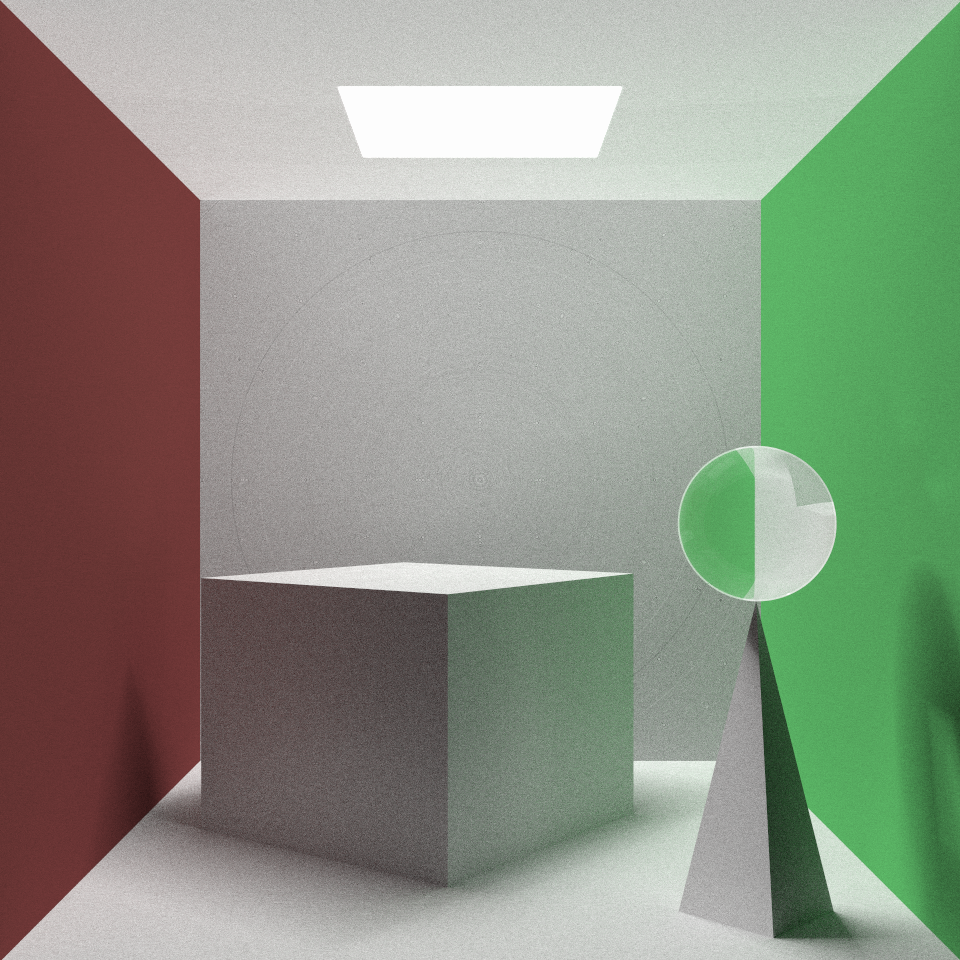
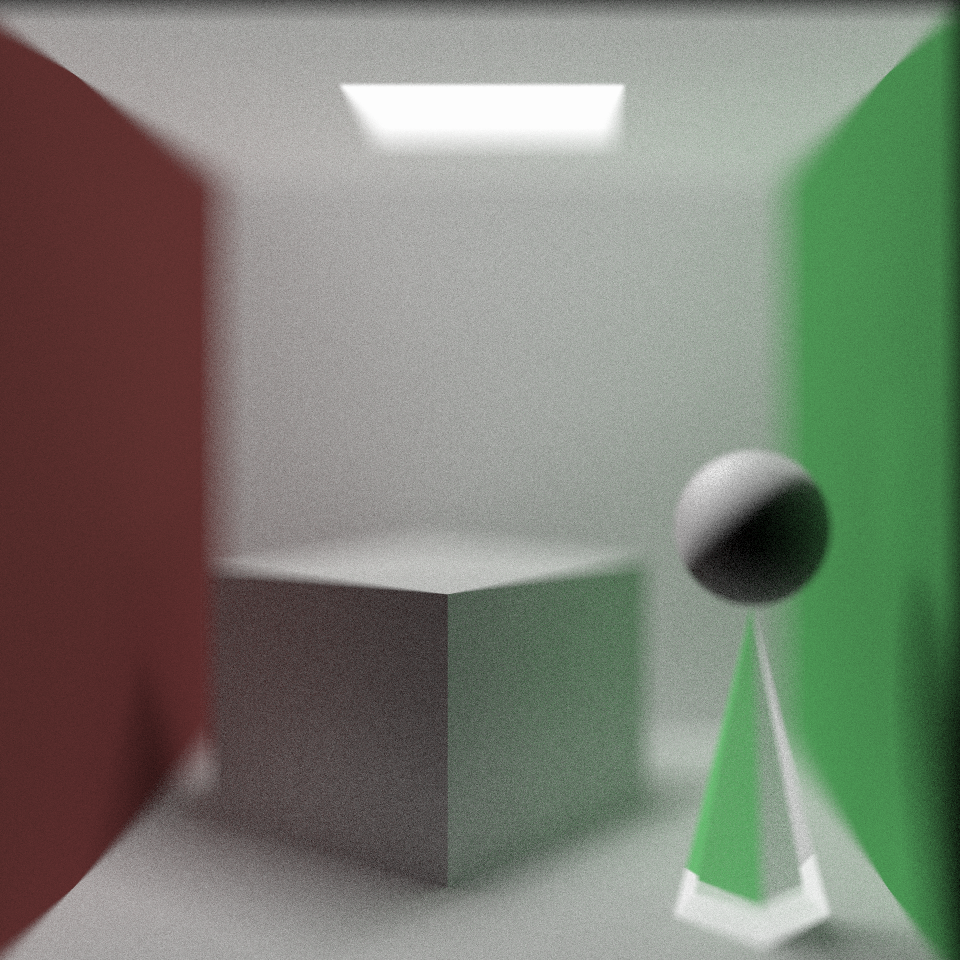
..

diff --git a/apps/main.cpp b/apps/main.cpp
@@ -27,8 +27,8 @@ int main() {
 
     init(RenderEnv::CUDA);
     Vec3* pixels;
-    setRenderConfig(width, height, 5, 256, true);
-    setCamera(40.f, 1.f, 10.f, 0.0f, {278.f, 278.f, -750.f}, {278.f, 278.f, 0});
+    setRenderConfig(width, height, 4, 128, true);
+    setCamera(40.f, 1.f, 900.f, 200.0f, {278.f, 278.f, -750.f}, {278.f, 278.f, 0});
 
     auto whiteT = Texture::createSolid({ .73, .73, .73 });
     auto redT   = Texture::createSolid({ .2f, .05f, .05f });
@@ -48,41 +48,41 @@ int main() {
 
     auto light  = Material::createEmitted(0, 1.0, 0, 0);
 
-    Object::createTriangle({555, 0, 555}, {0, 0, 555}, {0, 0, 0}, whiteW);
-    Object::createTriangle({555, 0, 555}, {555, 0, 0}, {0, 0, 0}, whiteW);
+    Object::createTriangle({555, 0, 555}, {0, 0, 555}, {0, 0, 0}, {0, -1, 0}, whiteW);
+    Object::createTriangle({555, 0, 555}, {555, 0, 0}, {0, 0, 0}, {0, -1, 0}, whiteW);
 
-    Object::createTriangle({555, 0, 555},{555, 555, 555},{0, 0, 555}, whiteW);
-    Object::createTriangle({0, 555, 555},{0, 0, 555}, {555, 555, 555}, whiteW);
+    Object::createTriangle({555, 0, 555},{555, 555, 555},{0, 0, 555}, {0,  0, 666}, whiteW);
+    Object::createTriangle({0, 555, 555},{0, 0, 555}, {555, 555, 555}, {0,  0, 666}, whiteW);
 
-    Object::createTriangle({555, 555, 555}, {0, 555, 555}, {0, 555, 0}, whiteW);
-    Object::createTriangle({555, 555, 555}, {555, 555, 0}, {0, 555, 0}, whiteW);
+    Object::createTriangle({555, 555, 555}, {0, 555, 555}, {0, 555, 0}, {0, 666, 0}, whiteW);
+    Object::createTriangle({555, 555, 555}, {555, 555, 0}, {0, 555, 0}, {0, 666, 0}, whiteW);
 
-    Object::createTriangle({555, 555, 555}, {555, 0, 555}, {555, 0, 0}, redW);
-    Object::createTriangle({555, 555, 555}, {555, 555, 0}, {555, 0, 0}, redW);
+    Object::createTriangle({555, 555, 555}, {555, 0, 555}, {555, 0, 0}, {666, 0, 0}, redW);
+    Object::createTriangle({555, 555, 555}, {555, 555, 0}, {555, 0, 0}, {666, 0, 0}, redW);
 
-    Object::createTriangle({0, 555, 555}, {0, 0, 555}, {0, 0, 0}, greenW);
-    Object::createTriangle({0, 555, 555}, {0, 555, 0}, {0, 0, 0}, greenW);
+    Object::createTriangle({0, 555, 555}, {0, 0, 555}, {0, 0, 0}, {-1, 0, 0}, greenW);
+    Object::createTriangle({0, 555, 555}, {0, 555, 0}, {0, 0, 0}, {-1, 0, 0}, greenW);
 
-    Object::createTriangle({378, 554, 378}, {178, 554, 378}, {178, 554, 178}, light);
-    Object::createTriangle({378, 554, 378}, {378, 554, 178}, {178, 554, 178}, light);
+    Object::createTriangle({378, 554, 378}, {178, 554, 378}, {178, 554, 178}, {0, 666, 0}, light);
+    Object::createTriangle({378, 554, 378}, {378, 554, 178}, {178, 554, 178}, {0, 666, 0}, light);
     
-    Object::createSphere({100, 250, 100}, 50, glass);
+    Object::createSphere({100, 250, 100}, 50, phong);
 
-    Object::createTriangle({100, 200, 100}, {100, 0, 50}, {50, 0, 100}, whiteW);
-    Object::createTriangle({100, 200, 100}, {100, 0, 150}, {50, 0, 100}, whiteW);
-    Object::createTriangle({100, 200, 100}, {150, 0, 100}, {100, 0, 150}, whiteW);
-    Object::createTriangle({100, 200, 100}, {150, 0, 100}, {100, 0, 50}, whiteW);
+    Object::createTriangle({100, 200, 100}, {100, 0, 50}, {50, 0, 100}, {100, 0, 100}, glass);
+    Object::createTriangle({100, 200, 100}, {100, 0, 150}, {50, 0, 100}, {100, 0, 100}, glass);
+    Object::createTriangle({100, 200, 100}, {150, 0, 100}, {100, 0, 150}, {100, 0, 100}, glass);
+    Object::createTriangle({100, 200, 100}, {150, 0, 100}, {100, 0, 50}, {100, 0, 100}, glass);
 
-    Object::createTriangle({300, 200, 150}, {150, 200, 350}, {350, 200, 500}, whiteW);
-    Object::createTriangle({300, 200, 150}, {500, 200, 300}, {350, 200, 500}, whiteW);
-    Object::createTriangle({300, 200, 150}, {150, 0, 350}, {300, 0, 150}, whiteW);
-    Object::createTriangle({300, 200, 150}, {150, 0, 350}, {150, 200, 350}, whiteW);
-    Object::createTriangle({300, 200, 150}, {500, 0 ,300}, {500, 200, 300}, whiteW);
-    Object::createTriangle({300, 200, 150}, {500, 0 ,300}, {300, 0, 150}, whiteW);
-    Object::createTriangle({350, 200, 500}, {500, 0 ,300}, {500, 200, 300}, whiteW);
-    Object::createTriangle({350, 200, 500}, {500, 0 ,300}, {350, 0, 500}, whiteW);
-    Object::createTriangle({350, 200, 500}, {150, 0, 350}, {350, 0, 500}, whiteW);
-    Object::createTriangle({350, 200, 500}, {150, 0, 350}, {150, 0, 350}, whiteW);
+    Object::createTriangle({300, 200, 150}, {150, 200, 350}, {350, 200, 500}, {325, 150, 325}, whiteW);
+    Object::createTriangle({300, 200, 150}, {500, 200, 300}, {350, 200, 500}, {325, 150, 325}, whiteW);
+    Object::createTriangle({300, 200, 150}, {150, 0, 350}, {300, 0, 150}, {325, 150, 325}, whiteW);
+    Object::createTriangle({300, 200, 150}, {150, 0, 350}, {150, 200, 350}, {325, 150, 325}, whiteW);
+    Object::createTriangle({300, 200, 150}, {500, 0 ,300}, {500, 200, 300}, {325, 150, 325}, whiteW);
+    Object::createTriangle({300, 200, 150}, {500, 0 ,300}, {300, 0, 150}, {325, 150, 325}, whiteW);
+    Object::createTriangle({350, 200, 500}, {500, 0 ,300}, {500, 200, 300}, {325, 150, 325}, whiteW);
+    Object::createTriangle({350, 200, 500}, {500, 0 ,300}, {350, 0, 500}, {325, 150, 325}, whiteW);
+    Object::createTriangle({350, 200, 500}, {150, 0, 350}, {350, 0, 500}, {325, 150, 325}, whiteW);
+    Object::createTriangle({350, 200, 500}, {150, 0, 350}, {150, 0, 350}, {325, 150, 325}, whiteW);
 
     render(&pixels);
     

diff --git a/src/src/renderer.cpp b/src/src/renderer.cpp
@@ -149,7 +149,7 @@ namespace Renderer
         return index;
     }
 
-    id_t Object::createTriangle(const Vec3& p1, const Vec3& p2, const Vec3& p3, id_t material) {
+    id_t Object::createTriangle(const Vec3& p1, const Vec3& p2, const Vec3& p3, const Vec3& anchor, id_t material) {
         ObjectInfo temp;
         int index     = objectBuffer.size();
         temp.type     = ObjectType::Triangle;
@@ -161,6 +161,7 @@ namespace Renderer
             (p1.y+p2.y+p3.y)/3,
             (p1.z+p2.z+p3.z)/3
         };
+        temp.v2       = anchor;
         addVertex(p2);
         addVertex(p3);
         recordEmittedObject(material, index, temp);

diff --git a/include/renderer.hpp b/include/renderer.hpp
@@ -61,7 +61,7 @@ namespace Renderer
     namespace Object
     {
         id_t createSphere(const Vec3& position, float radius, id_t material);
-        id_t createTriangle(const Vec3& p1, const Vec3& p2, const Vec3& p3, id_t material);
+        id_t createTriangle(const Vec3& p1, const Vec3& p2, const Vec3& p3, const Vec3& anchor ,id_t material);
     };
 
     namespace Texture{

diff --git a/实验报告.md b/实验报告.md
@@ -1,0 +1,24 @@
+<div style="text-align:center">
+    <h1>
+        基于Phong模型的渲染器
+    </h1>
+    <p>
+        1711326 郝润来
+    </p>
+</div>
+
+[toc]
+
+# 完成度
+
+1. 表面材质: Lambertain模型, Phong模型, 镜面材质, 毛玻璃材质, 有菲涅尔效应的玻璃材质
+
+2. 实现了软阴影
+
+3. 全局光照渲染器
+
+4. 使用`cuda C++ 10.1`加速
+
+   ![](./)
+
+   
